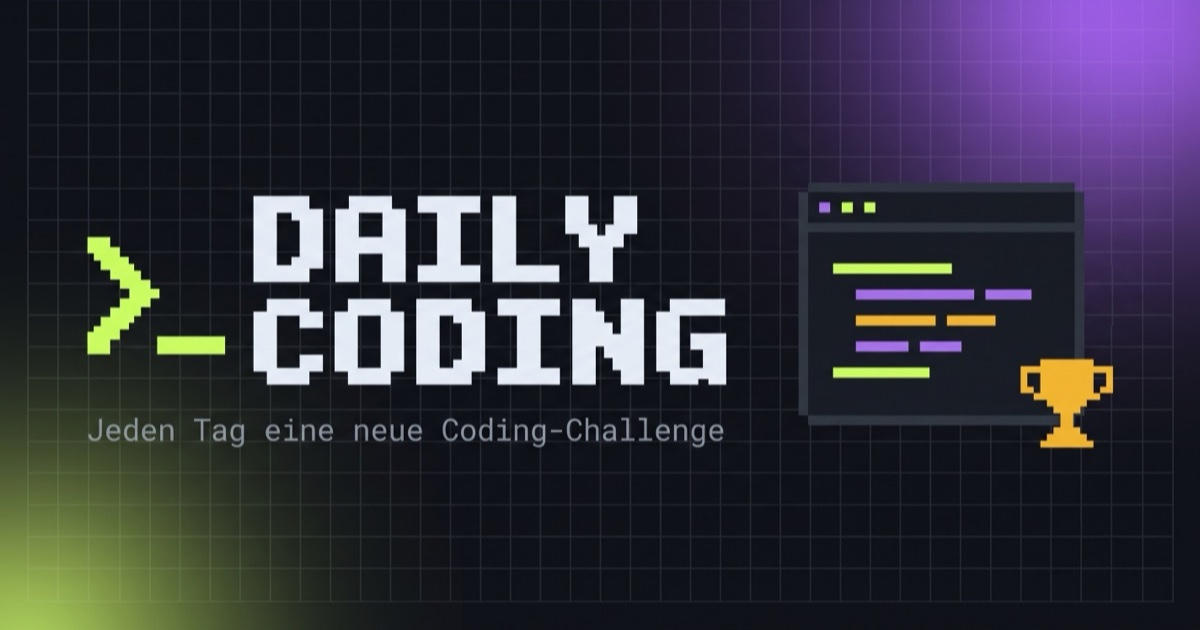
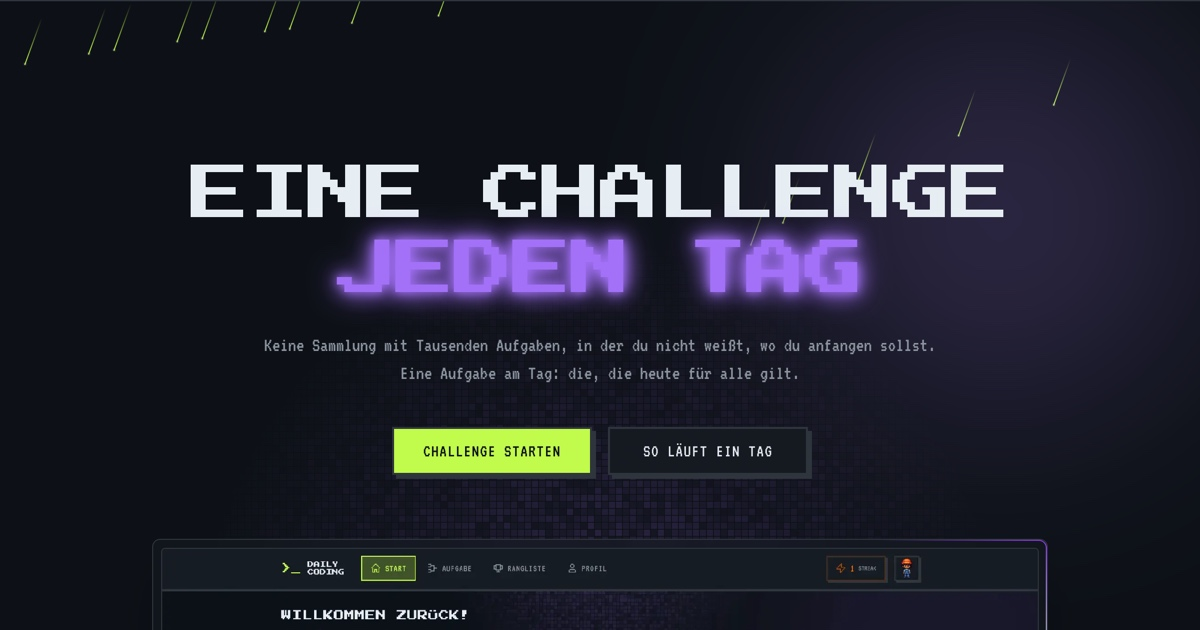
feat(DAI-251): Startseite als OG-Bild statt des gezeichneten Motivs

diff --git a/app/layout.tsx b/app/layout.tsx
@@ -26,8 +26,8 @@ const jetbrainsMono = JetBrains_Mono({
 });
 
 const OG_ALT =
-  "Der Schriftzug DAILY CODING im Pixel-Stil mit dem Satz „Jeden Tag eine neue " +
-  "Coding-Challenge“, daneben ein Code-Fenster und ein Pokal als Pixelgrafik";
+  "Die Startseite von DAILY CODING: der Schriftzug „Eine Challenge jeden Tag“ im " +
+  "Pixel-Stil, darunter zwei Schaltflächen und der obere Rand der Übersichtsseite";
 
 export const metadata: Metadata = {
   /**
@@ -56,12 +56,16 @@ export const metadata: Metadata = {
   description:
     "Löse jeden Tag eine neue Coding-Challenge in deiner Programmiersprache und steige im Ranking auf.",
   /**
-   * The card a shared link shows: a drawn brand card in the palette of the app, replacing
-   * the padded dashboard screenshot that stood here before (#113).
+   * The card a shared link shows: the landing above the fold, captured at 2400x1260 and
+   * scaled down, so the headline is the same one a visitor lands on.
    *
-   * Exactly 1200x630, the ratio every platform lays the card out for, and 127 KB. Size is
-   * the reason the source export was scaled down: WhatsApp drops the preview above roughly
-   * 300 KB, and a chat message is how a link like this travels.
+   * The capture starts below the navigation on purpose. It also stops above the badge
+   * naming today's challenge: that name changes daily, and a file cached by every crawler
+   * and chat client would keep announcing a challenge from months ago.
+   *
+   * Exactly 1200x630, the ratio every platform lays the card out for, and 110 KB. Size
+   * matters here: WhatsApp drops the preview above roughly 300 KB, and a chat message is
+   * how a link like this travels.
    */
   openGraph: {
     type: "website",
